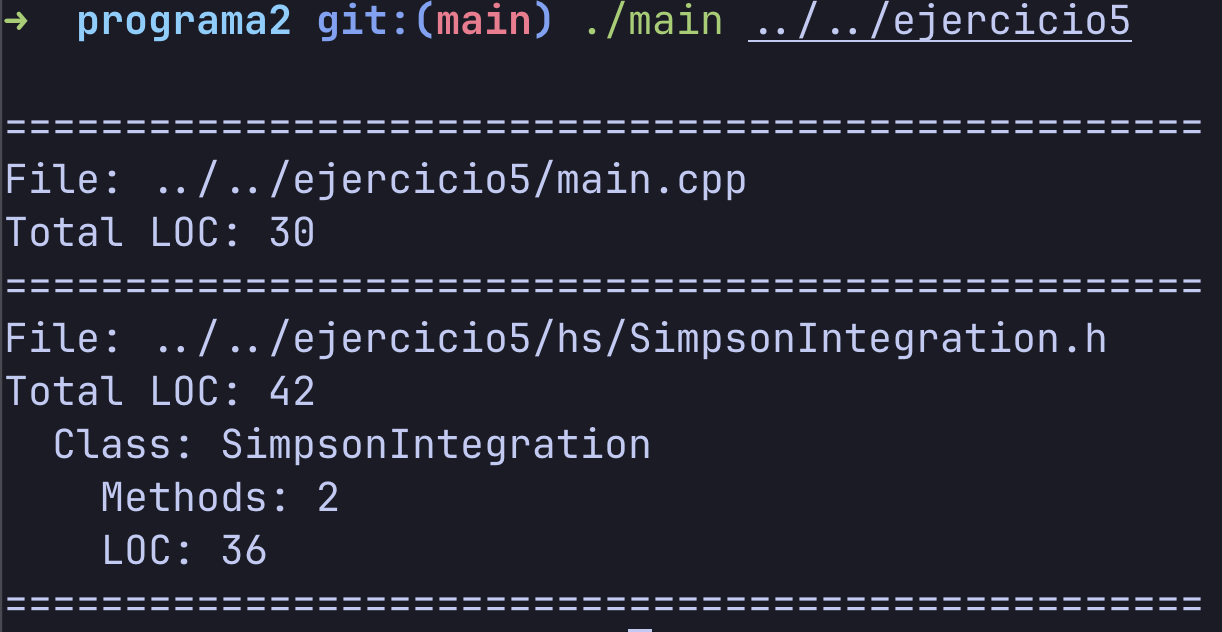
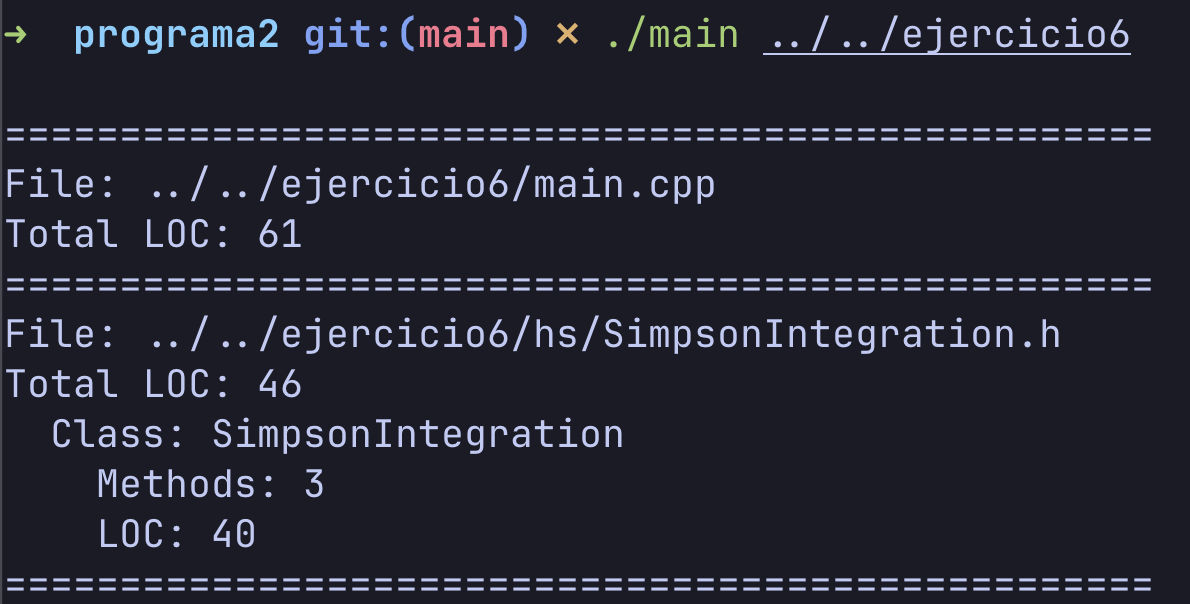
Ejercicio 6 entrega

Changed region(s): [[0.0, 0.1788, 0.995, 1.0], [0.0622, 0.0, 0.9639, 0.0894], [0.0, 0.0298, 0.0311, 0.0596]]

diff --git a/ejercicio6/main.cpp b/ejercicio6/main.cpp
@@ -12,22 +12,41 @@ double gamma(double x)
     return (x - 1) * gamma(x - 1);
 }
 
+double ajustarX(double x, double d, double err)
+{
+    if (err < 0)
+        return x + d;
+    else
+        return x - d;
+}
+
+void imprimirResultado(double resultado, double finIntervalo)
+{
+    std::cout << std::fixed << std::setprecision(5);
+    std::cout << "Resultado de la integral: " << resultado << std::endl;
+    std::cout << "Valor de x que aproxima el resultado: " << finIntervalo << std::endl;
+}
+
+bool isErrorAcceptable(double error, double cotaError)
+{
+    return std::abs(error) < cotaError;
+}
+
 int main(int argc, char *argv[])
 {
-    // Obtener dof, fin intervalo, inicio intervalo (opcional), cota error (opcional) y
-    // numero de segmentos inicial (opcional) desde los argumentos de la línea de comandos
-    double dof, finIntervalo, inicioIntervalo, cotaError, numSegIni;
+    double dof, pEsperado, finIntervalo, inicioIntervalo, cotaError, numSegIni;
     if (argc < 3)
     {
-        std::cerr << "Usage: " << argv[0] << " <dof> <fin_intervalo> <inicio_intervalo> <cota_error> <num_seg_ini>" << std::endl;
+        std::cerr << "Usage: " << argv[0] << " <dof> <p_esperado> <fin_intervalo> <inicio_intervalo> <cota_error> <num_seg_ini>" << std::endl;
         exit(1);
     }
     else
     {
         dof = std::stod(argv[1]);
-        finIntervalo = std::stod(argv[2]);
+        pEsperado = std::stod(argv[2]);
+        finIntervalo = std::stod(argv[2]) ? std::stod(argv[2]) : 1.0;
         inicioIntervalo = (argc > 3) ? std::stod(argv[3]) : 0.0;
-        cotaError = (argc > 4) ? std::stod(argv[4]) : 0.00001;
+        cotaError = (argc > 4) ? std::stod(argv[4]) : 0.000001;
         numSegIni = (argc > 5) ? std::stod(argv[5]) : 10;
     }
 
@@ -38,12 +57,43 @@ int main(int argc, char *argv[])
         double potencia = pow(1 + (x * x) / dof, -(dof + 1) / 2);
         return (numerador / denominador) * potencia;
     };
+
+    // imprimir los parámetros de entrada
     SimpsonIntegration integrator(cotaError, numSegIni, finIntervalo, inicioIntervalo, tDist);
     double resultado = integrator.integrate();
 
-    // Imprimir el resultado
-    std::cout << std::fixed << std::setprecision(6);
-    std::cout << "Resultado de la integral: " << resultado << std::endl;
+    double error = resultado - pEsperado;
+    double errorAnterior;
+    if (isErrorAcceptable(error, cotaError))
+    {
+        imprimirResultado(resultado, integrator.getFinIntervalo());
+        return 0;
+    }
 
+    double d = 0.5;
+    double x = finIntervalo;
+
+    x = ajustarX(x, d, error);
+    integrator.setFinIntervalo(x);
+    resultado = integrator.integrate();
+    errorAnterior = error;
+    error = resultado - pEsperado;
+
+    while (!isErrorAcceptable(error, cotaError))
+    {
+        if (errorAnterior * error < 0)
+        {
+            d /= 2;
+        }
+
+        x = ajustarX(x, d, error);
+        integrator.setFinIntervalo(x);
+        resultado = integrator.integrate();
+
+        errorAnterior = error;
+        error = resultado - pEsperado;
+    }
+
+    imprimirResultado(resultado, integrator.getFinIntervalo());
     return 0;
 }

diff --git a/ejercicio6/hs/SimpsonIntegration.h b/ejercicio6/hs/SimpsonIntegration.h
@@ -61,6 +61,16 @@ public:
 
         return integral_curr;
     }
+
+    void setFinIntervalo(double fin)
+    {
+        fin_intervalo = fin;
+    }
+
+    double getFinIntervalo() const
+    {
+        return fin_intervalo;
+    }
 };
 
 #endif
